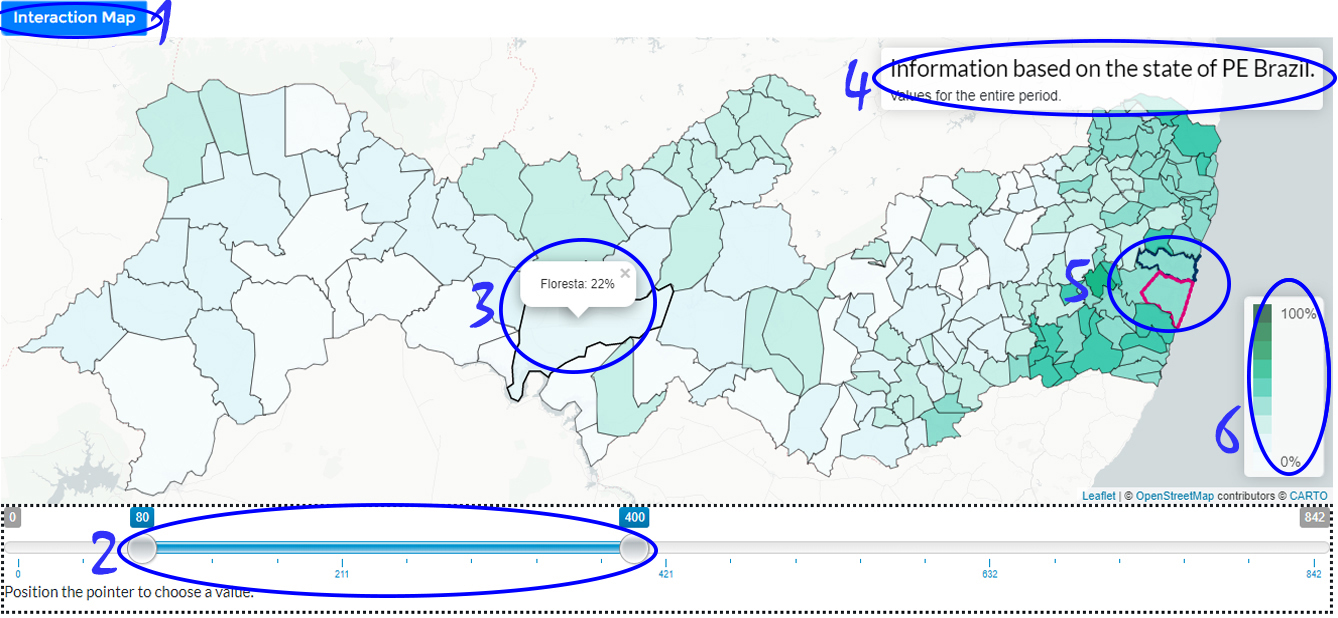
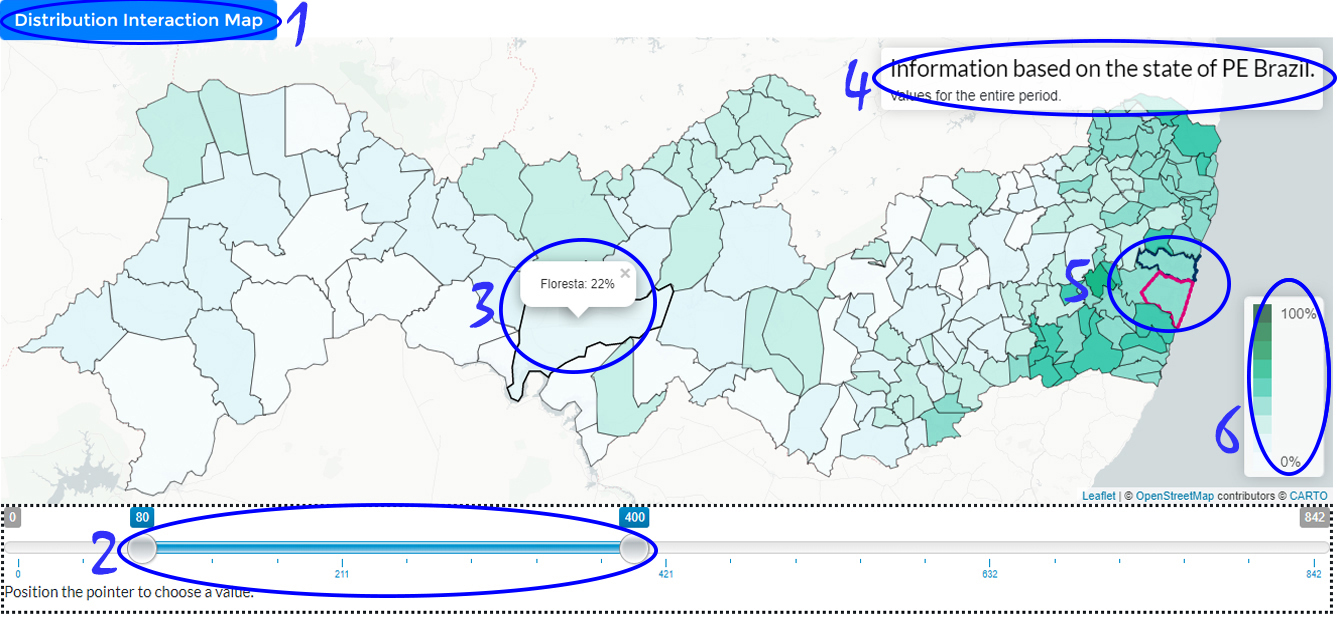
no message

Changed region(s): [[0.0, 0.0, 0.2451, 0.0922]]

diff --git a/index.html b/index.html
@@ -48,13 +48,13 @@
 		<div class="container-fluid">
 			<ul class="nav nav-pills center-pills" id="pills-tab" role="tablist">
 				<li class="nav-item">
-				    <a class="nav-link" id="IM1" data-toggle="pill" href="#IM" role="tab" aria-controls="IM" aria-selected="false"><b>Interaction Map (IM)</b></a>
+				    <a class="nav-link" id="IM1" data-toggle="pill" href="#IM" role="tab" aria-controls="IM" aria-selected="false"><b>Distribution Interaction Map (DIM)</b></a>
 				</li>
 				<li class="nav-item">
 				    <a class="nav-link" id="HOM2" data-toggle="pill" href="#HOM" role="tab" aria-controls="HOM" aria-selected="false"><b>Hypothetical Outcome Maps (HOM)</b></a>
 				</li>
 				<li class="nav-item">
-				    <a class="nav-link" id="DM3" data-toggle="pill" href="#DM" role="tab" aria-controls="DM" aria-selected="false"><b>Dot Maps (DM)</b></a>
+				    <a class="nav-link" id="DM3" data-toggle="pill" href="#DM" role="tab" aria-controls="DM" aria-selected="false"><b>Distribution Dot Map (DDM)</b></a>
 				</li>		
 			</ul>
 			<div class="tab-content">
@@ -103,7 +103,7 @@
 												<div id="tuto-form-1" role="tabpanel" class="bs-stepper-pane fade active dstepper-block" aria-labelledby="stepperFormTutoTrigger1">
 										        	<div class="card">
 													  	<div class="card-header">
-													  		<h2 class="card-title" style="text-align: center;"><b>Interaction Map</b></h2>
+													  		<h2 class="card-title" style="text-align: center;"><b>Distribution Interaction Map</b></h2>
 													  	</div>
 													  	<div class="card-block">
 													  		<ul class="list-group">
@@ -129,7 +129,7 @@
 										        <div id="tuto-form-2" role="tabpanel" class="bs-stepper-pane fade dstepper-none" aria-labelledby="stepperFormTutoTrigger2">
 										        	<div class="card">
 													  	<div class="card-header">
-													  		<h3 class="card-title" style="text-align: center;">Interaction Map</h3>
+													  		<h3 class="card-title" style="text-align: center;">Distribution Interaction Map</h3>
 													  	</div>
 													  	<div class="card-block">
 													  		<ul class="list-group">
@@ -193,7 +193,7 @@
 										        <div id="tuto-form-3" role="tabpanel" class="bs-stepper-pane fade dstepper-none" aria-labelledby="stepperFormTutoTrigger3">
 										        	<div class="card">
 													  	<div class="card-header">
-													  		<h3 class="card-title" style="text-align: center;">Interaction Map</h3>
+													  		<h3 class="card-title" style="text-align: center;">Distribution Interaction Map</h3>
 													  	</div>
 													  	<div class="card-block">
 													  		<ul class="list-group">
@@ -231,7 +231,7 @@
 										        <div id="tuto-form-4" role="tabpanel" class="bs-stepper-pane fade dstepper-none" aria-labelledby="stepperFormTutoTrigger4">
 										        	<div class="card">
 													  	<div class="card-header">
-													  		<h3 class="card-title" style="text-align: center;">Interaction Map</h3>
+													  		<h3 class="card-title" style="text-align: center;">Distribution Interaction Map</h3>
 													  	</div>
 													  	<div class="card-block">
 													  		<ul class="list-group">
@@ -300,7 +300,7 @@
 										        <div id="tuto-form-5" role="tabpanel" class="bs-stepper-pane fade dstepper-none" aria-labelledby="stepperFormTutoTrigger5">
 										        	<div class="card">
 													  	<div class="card-header">
-													  		<h3 class="card-title" style="text-align: center;">Interaction Map</h3>
+													  		<h3 class="card-title" style="text-align: center;">Distribution Interaction Map</h3>
 													  	</div>
 													  	<div class="card-block">
 													  		<ul class="list-group">
@@ -596,7 +596,7 @@
 											<div id="tuto-form-1" role="tabpanel" class="bs-stepper-pane fade active dstepper-block" aria-labelledby="stepperFormTutoTrigger1">
 												<div class="card">
 												  	<div class="card-header">
-												  		<h2 class="card-title" style="text-align: center;"><b>Dot Map</b></h2>
+												  		<h2 class="card-title" style="text-align: center;"><b>Distribution Dot Map</b></h2>
 												  	</div>
 												  	<div class="card-block">
 												  		<ul class="list-group">
@@ -622,7 +622,7 @@
 									        <div id="tuto-form-2" role="tabpanel" class="bs-stepper-pane fade dstepper-none" aria-labelledby="stepperFormTutoTrigger2">
 									      		<div class="card">
 												  	<div class="card-header">
-												  		<h3 class="card-title" style="text-align: center;">Dot Map</h3>
+												  		<h3 class="card-title" style="text-align: center;">Distribution Dot Map</h3>
 												  	</div>
 												  	<div class="card-block">
 												  		<ul class="list-group">
@@ -680,7 +680,7 @@
 									      	<div id="tuto-form-3" role="tabpanel" class="bs-stepper-pane fade dstepper-none" aria-labelledby="stepperFormTutoTrigger3">
 									        	<div class="card">
 												  	<div class="card-header">
-												  		<h3 class="card-title" style="text-align: center;">Dot Map</h3>
+												  		<h3 class="card-title" style="text-align: center;">Distribution Dot Map</h3>
 												  	</div>
 												  	<div class="card-block">
 												  		<ul class="list-group">
